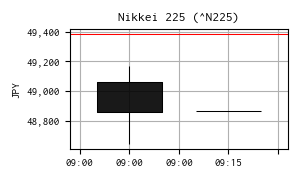
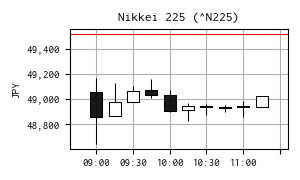
update

diff --git a/widgets/graphs.py b/widgets/graphs.py
@@ -1,4 +1,5 @@
 import pyqtgraph as pg
+import pyqtgraph.exporters
 from PySide6.QtCore import QMargins
 from PySide6.QtGui import QFont
 from pyqtgraph import DateAxisItem
@@ -12,7 +13,7 @@ class CustomYAxisItem(pg.AxisItem):
 
 
 class TrendGraph(pg.PlotWidget):
-    def __init__(self, res: AppRes):
+    def __init__(self, res: AppRes, dict_ts: dict, dict_setting: dict):
         axis_bottom = DateAxisItem(orientation='bottom')
         axis_left = CustomYAxisItem(orientation='left')
         super().__init__(
@@ -23,12 +24,28 @@ class TrendGraph(pg.PlotWidget):
         self.setFixedHeight(res.trend_height)
         self.setContentsMargins(QMargins(0, 0, 0, 0))
 
+        # x軸範囲
+        self.setXRange(dict_ts["start"], dict_ts["end"])
+
+        # フッター（日付と設定パラメータ）
+        msg_footer = (
+            f"DATE = {dict_ts['datetime_str_2']} / "
+            f"PERIOD_MA_1 = {dict_setting['PERIOD_MA_1']} / "
+            f"PERIOD_MA_2 = {dict_setting['PERIOD_MA_2']} / "
+            f"PERIOD_MR = {dict_setting['PERIOD_MR']} / "
+            f"THRESHOLD_MR = {dict_setting['THRESHOLD_MR']}"
+        )
+        self.setLabel(
+            axis="bottom",
+            text=f'<span style="font-family: monospace; font-size: 7pt;">{msg_footer}</span>'
+        )
+
         # マウス操作無効化
         self.setMouseEnabled(x=False, y=False)
         self.hideButtons()
         self.setMenuEnabled(False)
 
-        # フォント設定
+        # 軸のフォント設定
         font_small = QFont()
         font_small.setStyleHint(QFont.StyleHint.Monospace)
         font_small.setPointSize(9)
@@ -37,7 +54,6 @@ class TrendGraph(pg.PlotWidget):
 
         # プロットアイテム
         self.plot_item = plot_item = self.getPlotItem()
-
         # グリッド
         plot_item.showGrid(x=True, y=True, alpha=0.5)
         # 高速化オプション
@@ -60,3 +76,21 @@ class TrendGraph(pg.PlotWidget):
     def setTrendTitle(self, title: str):
         html = f"<span style='font-size: 9pt; font-family: monospace;'>{title}</span>"
         self.setTitle(html)
+
+    def save(self, path_img):
+        """
+        チャートをイメージに保存
+        https://pyqtgraph.readthedocs.io/en/latest/user_guide/exporting.html
+        :param path_img:
+        :return:
+        """
+        # Create an exporter for the widget's scene
+        # Note: For PlotWidget, you use widget.scene() or widget.plotItem
+        exporter = pg.exporters.ImageExporter(self.scene())
+
+        # Optional: Set export parameters like width/height (adjust as needed)
+        # exporter.parameters()['width'] = 1000
+
+        # Export to PNG file
+        exporter.export(path_img)
+        print(f"チャートが {path_img} に保存されました。")

diff --git a/modules/trader.py b/modules/trader.py
@@ -18,7 +18,7 @@ class Trader(QMainWindow):
     sendTradeData = Signal(float, float, float)
     requestResetEnv = Signal()
 
-    def __init__(self, res: AppRes, code: str):
+    def __init__(self, res: AppRes, code: str, dict_ts: dict):
         super().__init__()
         self.logger = logging.getLogger(__name__)
         self.res = res
@@ -32,9 +32,15 @@ class Trader(QMainWindow):
         self.list_y = list()
         self.list_v = list()
         # テクニカル指標
-        self.list_ts = list() # self.list_x と同一になってしまうかもしれない
+        self.list_ts = list()  # self.list_x と同一になってしまうかもしれない
         self.list_ma_1 = list()
         self.list_ma_2 = list()
+
+        # 銘柄コード別設定ファイルの取得
+        try:
+            dict_setting = load_setting(res, code)
+        except FileNotFoundError:
+            dict_setting = res.setting_default
 
         # _/_/_/_/_/_/_/_/_/_/_/_/_/_/_/_/_/_/_/_/_/_/_/_/_/_/_/_/_/_/_/_/_/_/_
         #  UI
@@ -50,7 +56,7 @@ class Trader(QMainWindow):
         # ---------------------------------------------------------------------
         # チャートインスタンス (FigureCanvas)
         # ---------------------------------------------------------------------
-        self.trend = trend = TrendGraph(res)
+        self.trend = trend = TrendGraph(res, dict_ts, dict_setting)
         self.setCentralWidget(trend)
 
         # _/_/_/_/_/_/_/_/_/_/_/_/_/_/_/_/_/_/_/_/_/_/_/_/_/_/_/_/_/_/_/_/_/_/_
@@ -62,12 +68,6 @@ class Trader(QMainWindow):
 
         # AutoPilot フラグ
         flag_autopilot = self.dock.option.isAutoPilotEnabled()
-
-        # 銘柄コード別設定ファイルの取得
-        try:
-            dict_setting = load_setting(res, code)
-        except FileNotFoundError:
-            dict_setting = res.setting_default
 
         # ワーカースレッドの生成
         self.worker = WorkerAgent(flag_autopilot, code, dict_setting)
@@ -155,7 +155,6 @@ class Trader(QMainWindow):
             self.list_ma_1,
             self.list_ma_2
         )
-
 
     def reset_env_completed(self):
         """

diff --git a/modules/kabuto.py b/modules/kabuto.py
@@ -232,7 +232,7 @@ class Kabuto(QMainWindow):
             # Trader インスタンスの生成
             # 主にチャート表示用（選択された銘柄コードのみ）
             # _/_/_/_/_/_/_/_/_/_/_/_/_/_/_/_/_/_/_/_/_/_/_/_/_/_/_/_/_/_/_/_/_
-            self.trader = trader = Trader(self.res, code)
+            self.trader = trader = Trader(self.res, code, self.dict_ts)
             # Dock の売買ボタンのクリック・シグナルを直接ハンドリング
             trader.dock.clickedBuy.connect(self.on_buy)
             trader.dock.clickedRepay.connect(self.on_repay)
@@ -244,8 +244,8 @@ class Kabuto(QMainWindow):
             # 「銘柄名　(code)」をタイトルにして設定し直し
             trader.setChartTitle(f"{dict_name[code]} ({code})")
 
-            # 当日ザラ場時間
-            trader.setTimeAxisRange(self.dict_ts["start"], self.dict_ts["end"])
+            # 当日ザラ場時間（x軸の範囲設定）
+            #trader.setTimeAxisRange(self.dict_ts["start"], self.dict_ts["end"])
 
             # 前日終値
             # if dict_lastclose[code] > 0:

diff --git a/funcs/tide.py b/funcs/tide.py
@@ -55,6 +55,7 @@ def get_intraday_timestamp(excel_path: str = "") -> dict:
     dict_ts["end"] = dt_end.timestamp()
     # 日付文字列
     dict_ts["datetime_str"] = f"{year:04}{month:02}{day:02}"
+    dict_ts["datetime_str_2"] = f"{year:04}-{month:02}-{day:02}"
 
     return dict_ts
 
